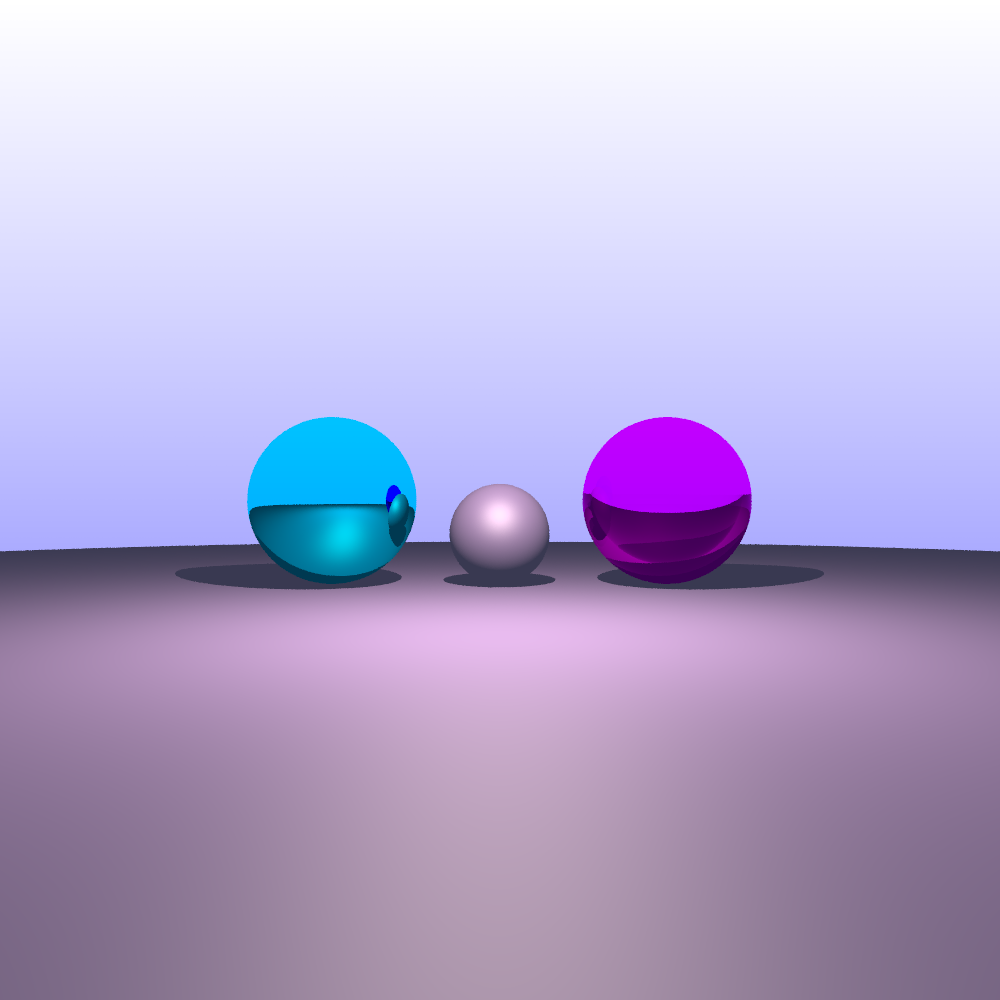
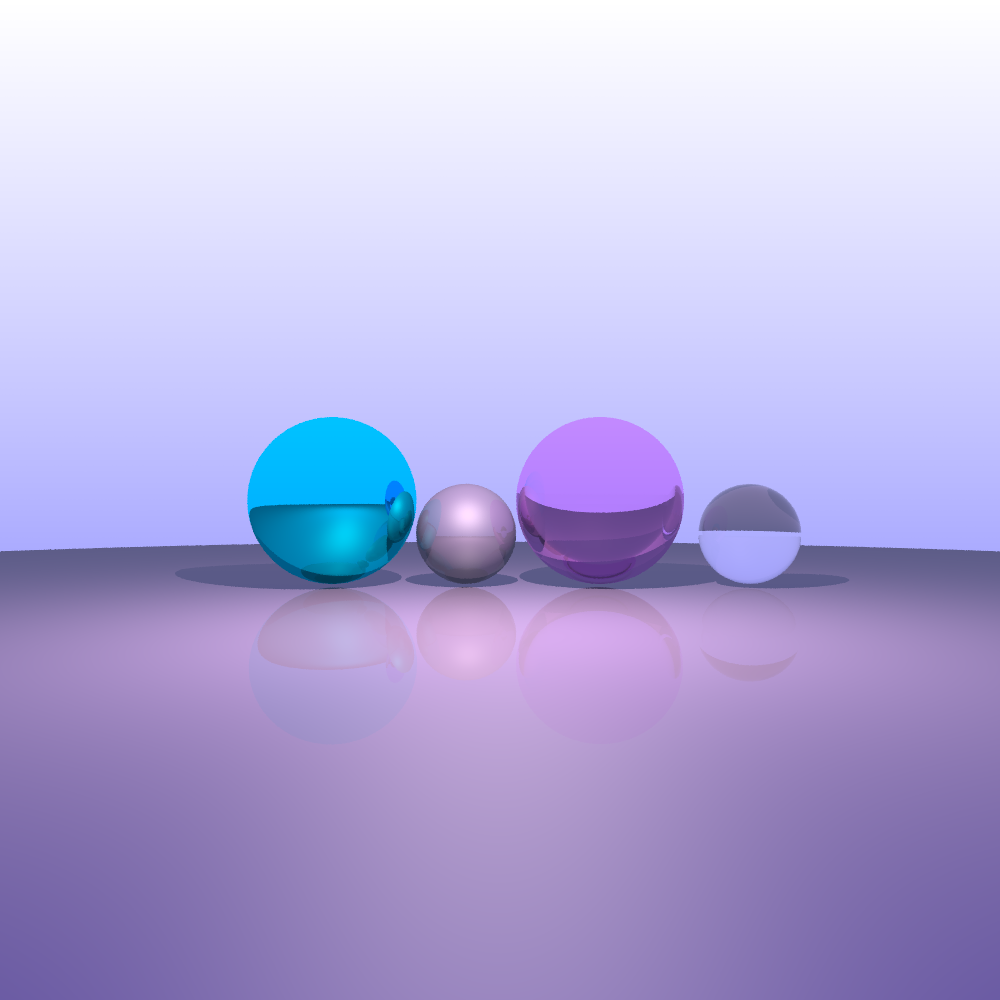
Phong material reflexivity.

Changed region(s): [[0.0, 0.403, 1.0, 0.651], [0.713, 0.744, 1.0, 1.0], [0.0, 0.744, 0.279, 1.0]]

diff --git a/src/Renderer/RayTracer.cpp b/src/Renderer/RayTracer.cpp
@@ -12,42 +12,49 @@ Color RayTracer::getColor(Ray &ray, float x, float y) {
 Color RayTracer::getColor(Ray &ray, float x, float y, int depth) {
 	if (depth == 0)
 		return Color(0, 0, 0);
+
 	RayHit rh = tree->hit(ray);
 	if (rh.hitable) {
-		if (rh.hitable->material->type == 0) {
-			// Lambertian
+		Material* mat = rh.hitable->material;
+		// Phong
+		if (mat->type == 0) {
 			Color color = reflectionModel->getColor(tree, scene, ray, rh);
-			Vec3 direction = randomUnitVec3() + rh.normal;
-			Ray scattered(rh.point + E * direction, direction);
-			//color = color * getColor(scattered, x, y, depth - 1);
-			return rh.hitable->material->ke + color;
+			if (mat->reflexivity > 0) {
+				Vec3 bias = E * rh.normal;
+				Vec3 reflected = reflect(ray.direction, rh.normal);
+				Ray reflectedRay(rh.point + bias, reflected);
+				color = color * (1 - mat->reflexivity) + 
+					getColor(reflectedRay, x, y, depth - 1) * mat->reflexivity;
+			}
+			return mat->ke + color;
 		}
 
-		float fuzz = rh.hitable->material->fuzz;
-		Color color = rh.hitable->getTexture(rh.uv) * rh.hitable->material->kd;
-		Vec3 reflected = reflect(ray.direction, rh.normal);
-		Ray reflectedRay(rh.point + reflected * E, reflected + randomUnitVec3(fuzz));
+		Vec3 bias = E * rh.normal;
+		Color color = rh.hitable->getTexture(rh.uv) * mat->kd;
 
-		if (rh.hitable->material->type == 1) {
-			// Metal
+		// Lambertian
+		if (mat->type == 1) {
+			Vec3 direction = randomUnitVec3() + rh.normal;
+			Ray scattered(rh.point + bias, direction);
+			return mat->ke + color * getColor(scattered, x, y, depth - 1);
+		}
+
+		Vec3 reflected = reflect(ray.direction, rh.normal);
+		Ray reflectedRay(rh.point + bias, reflected);
+
+		// Metal
+		if (mat->type == 2) {
+			reflectedRay.direction += randomUnitVec3(mat->fuzz);
 			return color * getColor(reflectedRay, x, y, depth - 1);
 		}
 
 		// Dielectric
-		// https://www.scratchapixel.com/lessons/3d-basic-rendering/introduction-to-shading/reflection-refraction-fresnel
-
-		float ior = rh.hitable->material->refraction;
-		// compute fresnel
-		float kr = fresnel(ray.direction, rh.normal, ior);
+		float fr = fresnel(ray.direction, rh.normal, mat->refraction);
 		bool outside = Vec3::dot(ray.direction, rh.normal) < 0;
-		Vec3 bias = E * rh.normal;
-
 		Vec3 refractionColor(0, 0, 0);
-		// compute refraction if it is not a case of total internal reflection
-		if (kr < 1) {
-			Vec3 refractionDir = refract(ray.direction, rh.normal, ior);
+		if (fr < 1) {
+			Vec3 refractionDir = refract(ray.direction, rh.normal, mat->refraction);
 			refractionDir = Vec3::normalize(refractionDir);
-
 			Vec3 refractionRayOrig = outside ? rh.point - bias : rh.point + bias;
 			Ray refractionRay(refractionRayOrig, refractionDir);
 			refractionColor = getColor(refractionRay, x, y, depth - 1);
@@ -60,14 +67,10 @@ Color RayTracer::getColor(Ray &ray, float x, float y, int depth) {
 		Ray reflectionRay(reflectionRayOrig, reflectionDir);
 		Vec3 reflectionColor = getColor(reflectionRay, x, y, depth - 1);
 
-		// mix the two
-		return color * (reflectionColor * kr + refractionColor * (1 - kr));
-
+		return color * (reflectionColor * fr + refractionColor * (1 - fr));
 	} else {
 		return backgroundColor(x, y);
 	}
-
-
 
 }
 

diff --git a/src/Parser/Parser.cpp b/src/Parser/Parser.cpp
@@ -32,14 +32,14 @@ bool Parser::load(string& file) {
 	rayTracer->treeDepth = 10;
 	rayTracer->rayDepth = 20;
 	rayTracer->sampleCount = 8;
-	
 
-	// Material 0 - Lambertian
+	// Material 0 - Phong
 	{
 		Material* mat = new Material();
 		mat->kd = Color(0.8, 0.5, 0.8);
 		mat->ks = Color(1, 0.8, 0.8) * 0.8;
 		mat->shininess = 16;
+		mat->reflexivity = 0.2;
 		mat->type = 0;
 		rayTracer->scene.materials.push_back(mat);
 	}
@@ -48,26 +48,35 @@ bool Parser::load(string& file) {
 	{
 		Material* mat = new Material();
 		mat->kd = Color(0, 1, 1);
-		mat->ks = Color(0, 0, 0);
-		mat->type = 1;
+		mat->type = 2;
 		rayTracer->scene.materials.push_back(mat);
 	}
 
 	// Material 2 - Water
 	{
 		Material* mat = new Material();
-		mat->kd = Color(1, 0, 1);
+		mat->kd = Color(1, 0.5, 1);
 		mat->refraction = 1.330;
-		mat->type = 2;
+		mat->type = 3;
 		rayTracer->scene.materials.push_back(mat);
 	}
 
-	// Material 3 - Air
+	// Material 3 - Glass
 	{
 		Material* mat = new Material();
-		mat->kd = Color(1, 0, 1);
+		mat->kd = Color(1, 1, 1);
+		mat->refraction = 1.5;
+		mat->type = 3;
+		rayTracer->scene.materials.push_back(mat);
+	}
+
+
+	// Material 4 - Air
+	{
+		Material* mat = new Material();
+		mat->kd = Color(1, 1, 1);
 		mat->refraction = 1 / 1.330;
-		mat->type = 2;
+		mat->type = 3;
 		rayTracer->scene.materials.push_back(mat);
 	}
 
@@ -87,7 +96,7 @@ bool Parser::load(string& file) {
 		//rayTracer->scene.hitables.push_back(sphere);
 	}
 
-	// Opaque sphere
+	// Metal sphere
 	{
 		Point3 center(0, 0.5, -2);
 		Sphere* sphere = new Sphere(xform, center, 0.25);
@@ -95,26 +104,34 @@ bool Parser::load(string& file) {
 		rayTracer->scene.hitables.push_back(sphere);
 	}
 
-	// Metal sphere
+	// Opaque sphere
 	{
-		Point3 center(0.5, 0.4, -2);
+		Point3 center(0.4, 0.4, -2);
 		Sphere* sphere = new Sphere(xform, center, 0.15);
 		sphere->material = rayTracer->scene.materials[0];
 		rayTracer->scene.hitables.push_back(sphere);
 	}
 
-	// Glass sphere
+	// Water sphere
 	{
-		Point3 center(1, 0.5, -2);
+		Point3 center(0.8, 0.5, -2);
 		Sphere* sphere = new Sphere(xform, center, 0.25);
 		sphere->material = rayTracer->scene.materials[2];
 		rayTracer->scene.hitables.push_back(sphere);
 	}
 
-	// Anti-glass sphere
+	// Anti-water sphere
 	{
-		Point3 center(1, 0.525, -2);
+		Point3 center(0.8, 0.525, -2);
 		Sphere* sphere = new Sphere(xform, center, 0.225);
+		sphere->material = rayTracer->scene.materials[4];
+		rayTracer->scene.hitables.push_back(sphere);
+	}
+
+	// Glass sphere
+	{
+		Point3 center(1.25, 0.4, -2);
+		Sphere* sphere = new Sphere(xform, center, 0.15);
 		sphere->material = rayTracer->scene.materials[3];
 		rayTracer->scene.hitables.push_back(sphere);
 	}

diff --git a/src/Material/Texture.cpp b/src/Material/Texture.cpp
@@ -2,13 +2,6 @@
 #include "../Math/Perlin.h"
 
 Color CheckersTexture::getColor(float u, float v, Point3 &p) {
-  /*
-  float sines = sin(10*p.x)*sin(10*p.y)*sin(10*p.z);
-  if (sines < 0)
-      return color1;
-  else
-      return color2;
-  */
   int x = floor(u * repeatx);
   int y = repeaty - floor(v * repeaty);
   x = ((x % repeatx) + repeatx) % repeatx;
@@ -28,5 +21,5 @@ Color ImageTexture::getColor(float u, float v, Point3 &p) {
 }
 
 Color PerlinTexture::getColor(float u, float v, Point3 &p) {
-  return Vec3(1,1,1)*0.5*(1 + sin(scale*p.x + 5*perlin(scale*p)));
+  return Vec3(1, 1, 1) * 0.5 * (1 + sin(scale*p.x + 5 * perlin(scale*p)));
 }

diff --git a/src/Material/Material.h b/src/Material/Material.h
@@ -5,7 +5,7 @@
 
 class Material {
 public:
-	// 0 = lambertian, 1 = metal, 2 = dielectric
+	// 0 = phong, 1 = lambertian, 2 = metal, 3 = dielectric
 	int type = 0;
 
 	// Phong
@@ -14,6 +14,7 @@ public:
 	Color kd = Color(1, 1, 1);
 	Color ks = Color(1, 1, 1);
 	float shininess = 32;
+	float reflexivity = 0;
 
 	// Cook-Torrance
 	float roughness = 0.1;
